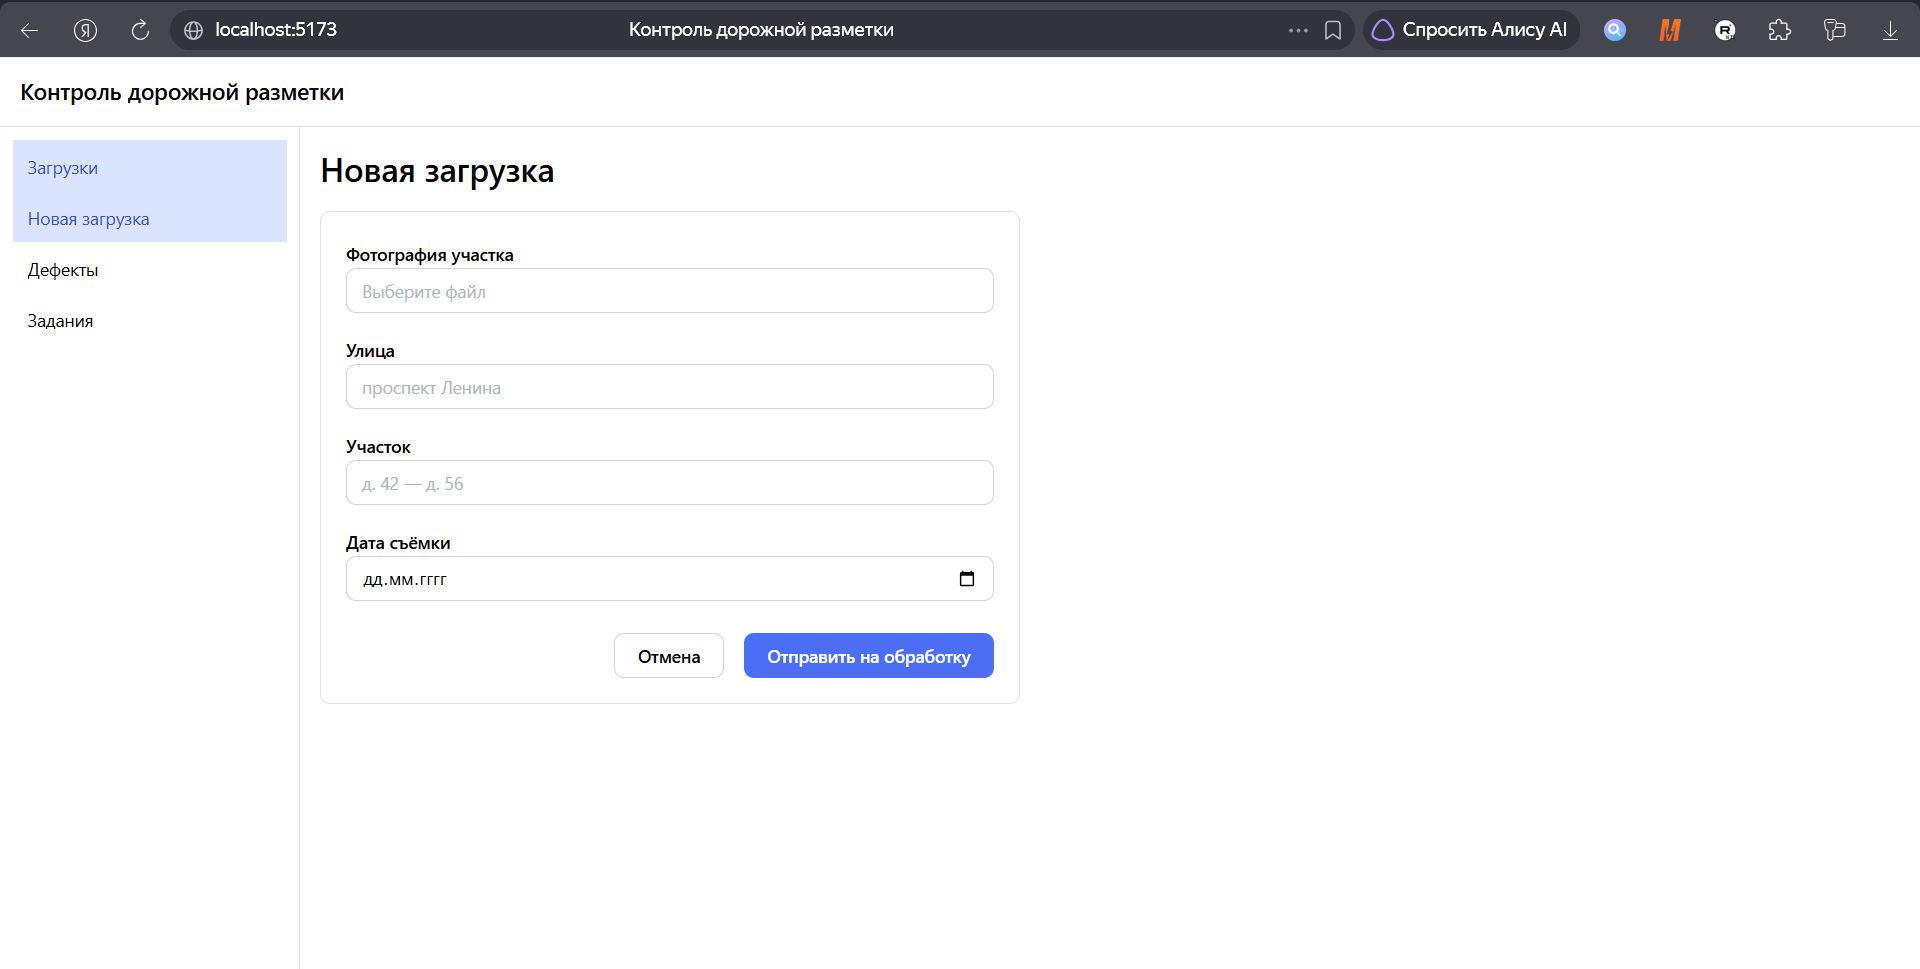
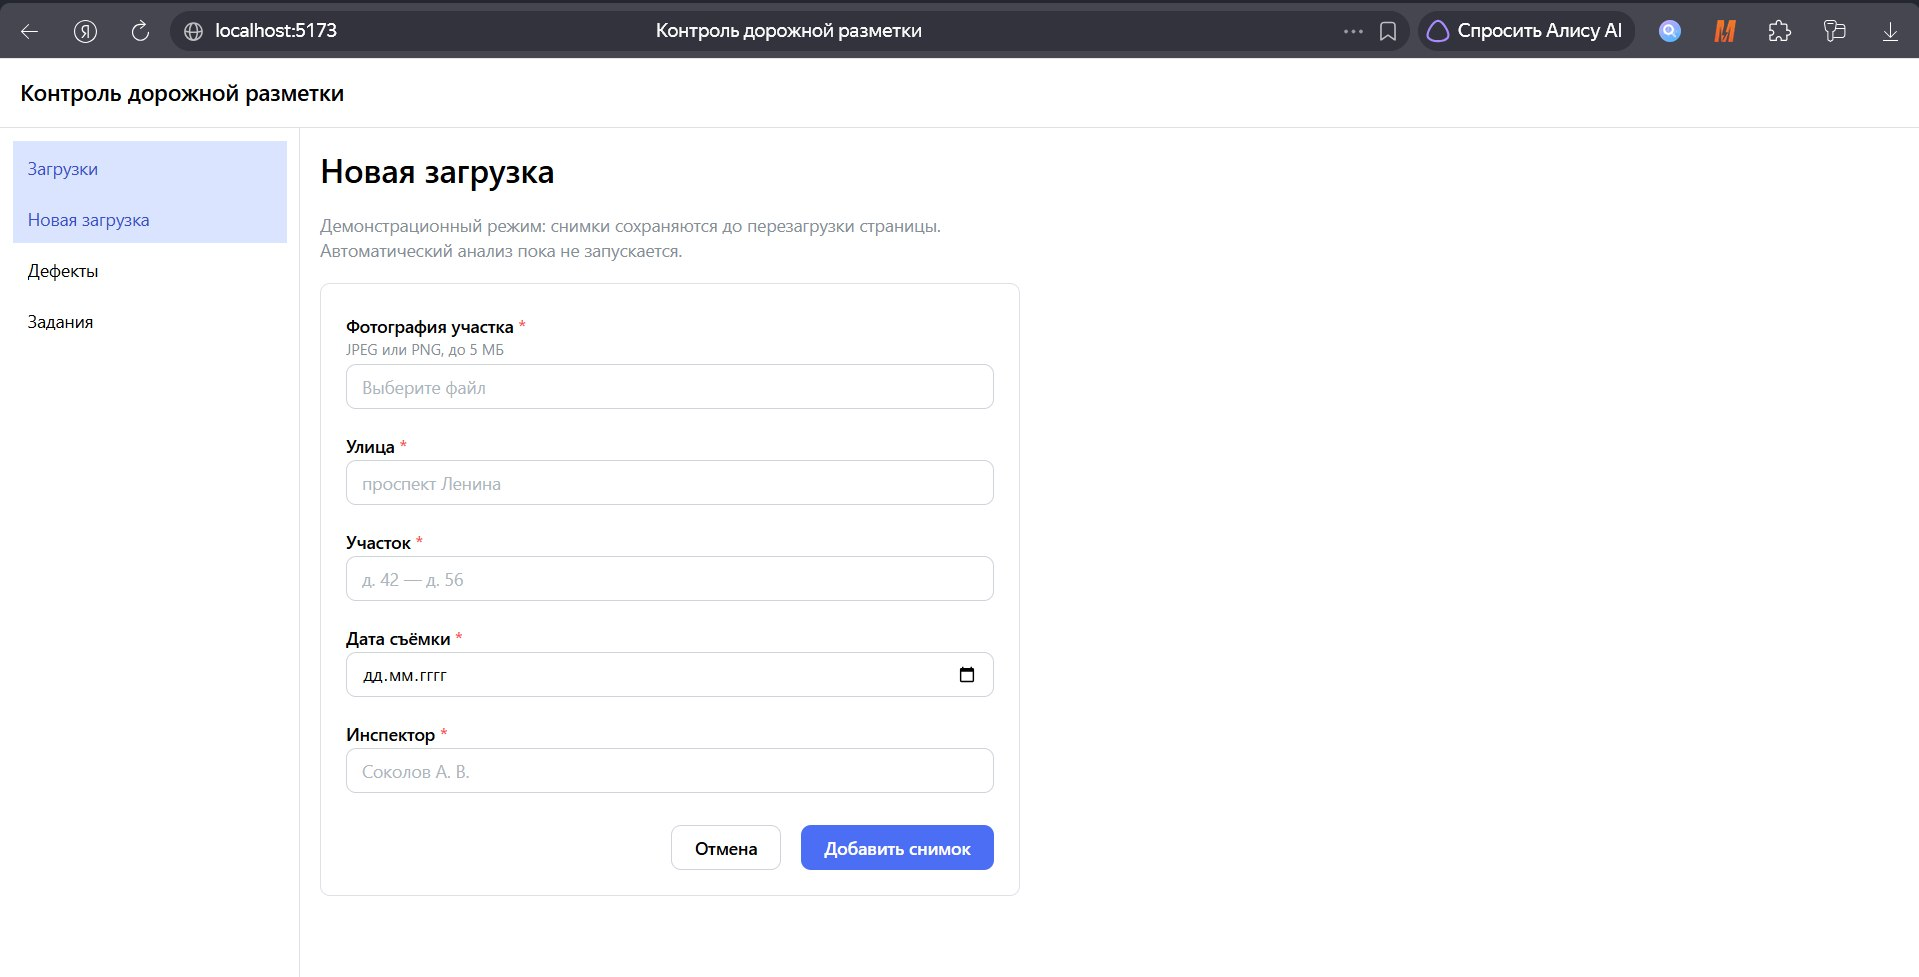
Обновлены документация и скриншоты лабораторной работы №3

diff --git a/README.md b/README.md
@@ -6,7 +6,7 @@
 Инспектор загружает фотографии участков, на снимках отмечаются дефекты разметки
 (стёртые линии и пробелы), а по найденным дефектам диспетчер формирует задания на ремонт.
 
-Текущий этап — лабораторная работа №2: серверная часть, база данных и API.
+Текущий этап — лабораторная работа №3: архитектура frontend и динамический интерфейс.
 Интерфейс пока работает на демонстрационных данных, их подключение к API выполняется
 в лабораторной работе №5.
 
@@ -16,7 +16,7 @@
 2. Загруженный снимок попадает в общий список, где видно его статус обработки.
 3. Диспетчер открывает реестр дефектов, фильтрует его по типу и серьёзности.
 4. По выбранному дефекту диспетчер создаёт задание на ремонт с исполнителем и сроком.
-5. Диспетчер отслеживает статусы заданий на ремонт.
+5. Диспетчер фильтрует задания по статусу и изменяет их состояние.
 
 ## Экраны
 
@@ -52,6 +52,10 @@ frontend/             клиентская часть (React + TypeScript)
   src/
     app/              настройка приложения: маршруты, провайдеры, тема, макет
     pages/            экраны приложения, по файлу на маршрут
+    features/         пользовательские действия
+      upload-photo/   добавление снимка, валидация и предпросмотр
+      create-repair-task/ создание задания по дефекту
+      change-task-status/ изменение статуса задания
     entities/         сущности предметной области
       upload/         снимок участка: тип, подписи статусов, данные
       defect/         дефект разметки
@@ -77,18 +81,20 @@ docker-compose.yml    PostgreSQL для локальной разработки
 docs/screenshots/     скриншоты экранов
 ```
 
-Структура frontend следует упрощённому варианту Feature-Sliced Design. Слои
-расположены по возрастанию зависимости: `shared` не знает ни о чём, `entities`
-использует только `shared`, `pages` собирает страницы из сущностей и общих
-компонентов, `app` связывает всё вместе. Обратные зависимости запрещены — это
-и даёт предсказуемость: изменение страницы не может сломать сущность.
+Структура frontend следует упрощённому варианту Feature-Sliced Design.
+`shared` содержит общие компоненты и утилиты, `entities` — типы, данные и состояние
+сущностей, `features` — пользовательские действия, `pages` собирает страницы,
+а `app` связывает всё вместе. Нижележащие слои не импортируют вышележащие.
 
-Каждый каталог сущности имеет файл `index.ts` — публичный интерфейс слайса.
-Импортировать из сущности следует только через него, а не напрямую из внутренних
-файлов: так внутреннее устройство можно менять, не трогая места использования.
+Каждый каталог сущности или пользовательского действия имеет файл `index.ts` —
+публичный интерфейс слайса. Импортировать из него следует через этот файл,
+а не напрямую из внутренних модулей: так внутреннее устройство можно менять,
+не трогая места использования.
 
-Слой `features` (пользовательские действия) добавляется по мере появления
-соответствующей функциональности.
+Реализованы формы добавления снимка и создания задания с клиентской валидацией,
+предпросмотр фотографии, фильтры и изменение статуса задания. Для экранов с данными
+предусмотрены загрузка (пока имитация), ошибка с повторной попыткой и пустой результат.
+Добавлены плавные переходы с учётом настройки уменьшения анимации.
 
 ## Модель данных
 
@@ -110,8 +116,11 @@ uploads 1 ──< N defects 1 ──1 repair_tasks
 Адрес хранится только у снимка: дефект и задание получают его по цепочке связей.
 Количество дефектов у снимка не хранится отдельно, а считается по связанным записям.
 
-Интерфейс пока использует демонстрационные данные из `frontend/src/data/mockData.ts`;
-подключение экранов к API выполняется в лабораторной работе №5.
+Интерфейс использует демонстрационные данные из файлов `mock.ts` в каталогах
+`frontend/src/entities`. Снимки и задания хранятся в React Context: изменения
+сохраняются при переходах между страницами и сбрасываются после перезагрузки.
+Новые снимки получают статус «В обработке», автоматический анализ через интерфейс
+пока не запускается. Подключение экранов к API выполняется в лабораторной работе №5.
 
 ## API
 
@@ -211,7 +220,7 @@ uploads 1 ──< N defects 1 ──1 repair_tasks
 
 ## Запуск frontend
 
-Нужен Node.js версии 20 или новее.
+Нужен Node.js 20.19+ в ветке 20.x или 22.12 и новее.
 
 ```bash
 cd frontend
@@ -283,8 +292,5 @@ http://localhost:8000/docs
 | `01-uploads.png` | Список загрузок |
 | `02-new-upload.png` | Форма добавления снимка |
 | `03-defects.png` | Реестр дефектов |
-| `04-defects-empty.png` | Реестр дефектов, под фильтры ничего не подошло |
-| `05-tasks.png` | Задания на ремонт |
-| `06-not-found.png` | Страница не найдена |
-| `07-mobile-uploads.png` | Список загрузок на узком экране |
-| `08-mobile-menu.png` | Меню на узком экране |
+| `04-tasks.png` | Задания на ремонт |
+| `05-not-found.png` | Страница не найдена |
